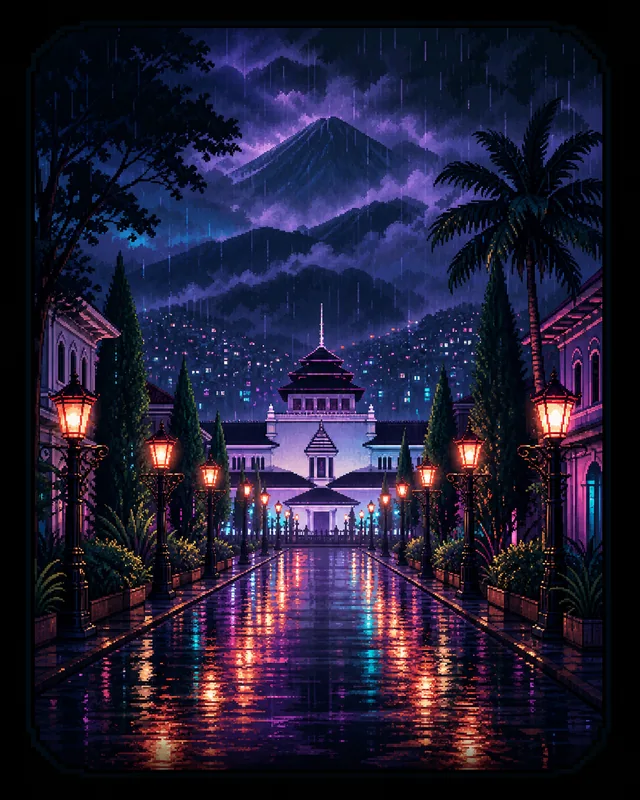
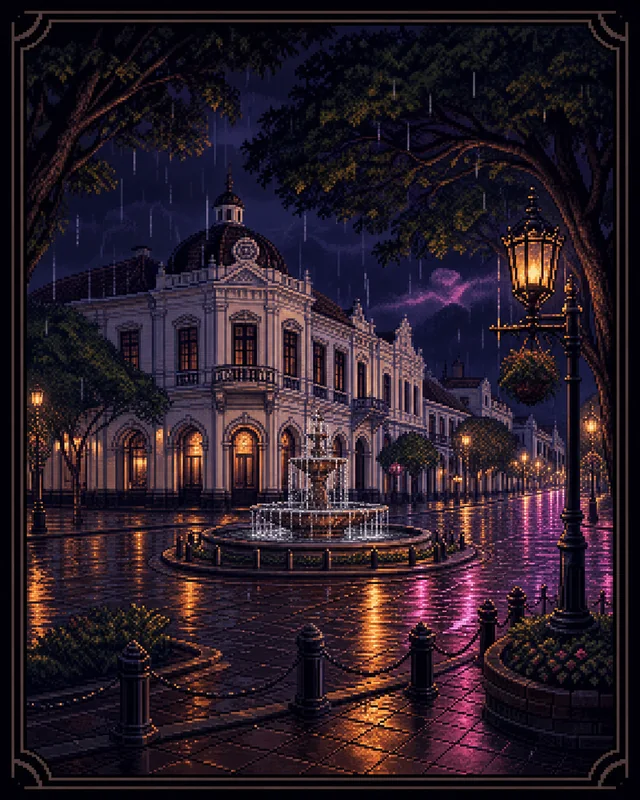
Restore Deck of Capitalist title mark

diff --git a/src/App.tsx b/src/App.tsx
@@ -212,10 +212,10 @@ function Menu({ state, saved, highScore, legacyCleared, dispatch }: {
     <main className="menu-screen">
       <div className="menu-shade" />
       <section className="menu-panel">
-        <div className="title-lockup" aria-label="Monopoly Citizen Asset">
-          <span>Monopoly</span><strong>Citizen Asset</strong>
+        <div className="title-lockup">
+          <img src="/assets/title.png" alt="Deck of Capitalist" />
         </div>
-        <p className="eyebrow">A pixel-noir property roguelike</p>
+        <p className="eyebrow">Monopoly Citizen Asset</p>
         <h1>Be a corrupt tycoon.</h1>
         <p className="menu-copy">Build ruthless portfolios, hire tycoons, and clear eight escalating Jakarta market targets.</p>
         {legacyCleared && <p className="notice">The incompatible prototype save was retired. Your legacy high score remains.</p>}
@@ -463,7 +463,7 @@ export default function App() {
       {state.phase === 'playing' && <GameTable state={state} dispatch={dispatch} />}
       {state.phase === 'shop' && <Shop state={state} dispatch={dispatch} />}
       {(state.phase === 'victory' || state.phase === 'gameover') && <Ending state={state} dispatch={dispatch} />}
-      <div className="portrait-gate" role="status"><RotateCcw /><h2>Rotate to trade</h2><p>Monopoly Citizen Asset is built for landscape play. Your run is saved.</p></div>
+      <div className="portrait-gate" role="status"><RotateCcw /><h2>Rotate to trade</h2><p>Deck of Capitalist is built for landscape play. Your run is saved.</p></div>
     </>
   );
 }

diff --git a/src/index.css b/src/index.css
@@ -26,9 +26,8 @@ button:disabled { cursor: not-allowed; filter: grayscale(.7); opacity: .42; }
 .menu-screen { background: #070b11 url('/assets/generated/table-jakarta.webp') center/cover no-repeat; display: grid; place-items: center start; padding: 4vh 7vw; }
 .menu-shade, .ending-shade { position: absolute; inset: 0; background: linear-gradient(90deg, rgba(3,6,10,.98) 0%, rgba(3,6,10,.86) 42%, rgba(3,6,10,.18) 74%, rgba(3,6,10,.45) 100%); }
 .menu-panel { position: relative; width: min(610px, 92vw); z-index: 1; }
-.title-lockup { width: min(560px, 88vw); display: grid; gap: 0; padding: .35rem 0 .75rem; color: #f8e5a4; text-transform: uppercase; text-shadow: 0 3px 0 #5b3210, 0 8px 24px rgba(0,0,0,.8); }
-.title-lockup span { color: #e9b84d; font: 700 clamp(.95rem, 1.75vw, 1.4rem) DM Mono, monospace; letter-spacing: .3em; }
-.title-lockup strong { margin-top: -.12em; font-size: clamp(2.8rem, 7vw, 6.6rem); line-height: .77; letter-spacing: -.095em; font-weight: 800; }
+.title-lockup { width: min(560px, 88vw); padding: .35rem 0 .5rem; }
+.title-lockup img { display: block; width: 100%; height: auto; filter: drop-shadow(0 9px 22px rgba(0,0,0,.72)); }
 .eyebrow, .shop-heading span, .ending section > span { margin: .4rem 0; color: var(--gold); text-transform: uppercase; letter-spacing: .19em; font: 500 .73rem DM Mono, monospace; }
 .menu-panel h1 { margin: .25rem 0 .6rem; font-size: clamp(2.1rem, 4.6vw, 4.5rem); line-height: .96; letter-spacing: -.055em; }
 .menu-copy { max-width: 560px; color: #b7c1c8; line-height: 1.55; font-size: clamp(.86rem, 1.2vw, 1.03rem); }

diff --git a/README.md b/README.md
@@ -1,4 +1,4 @@
-# Monopoly Citizen Asset
+# Deck of Capitalist
 
 A browser-based, pixel-noir property roguelike set above nighttime Jakarta. Build portfolios, hire Tycoons, tune a persistent 40-card deck, and clear eight escalating market targets.
 